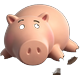
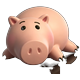
fix: preserve hooves with tighter shadow threshold, clean floor strip separately
Made-with: Cursor

diff --git a/process_ham.py b/process_ham.py
@@ -18,7 +18,7 @@ os.makedirs(PROC_DIR, exist_ok=True)
 
 # ── 工具函数 ─────────────────────────────────────────────────────────────────
 
-def load_remove_black(path, dark_thresh=12, feather=18, shadow_bright=90, shadow_chroma=28):
+def load_remove_black(path, dark_thresh=12, feather=18, shadow_bright=80, shadow_chroma=10):
     """
     从图片边缘做 BFS 洪泛填充，只去掉与边缘相连的近纯黑背景。
     - dark_thresh 极低（12），只有真正的纯黑像素才参与 BFS 扩展，
@@ -69,16 +69,27 @@ def load_remove_black(path, dark_thresh=12, feather=18, shadow_bright=90, shadow
     new_alpha = np.where(visited, bg_alpha, arr[..., 3])
     result[..., 3] = new_alpha.astype(np.uint8)
 
-    # ── 去除地面阴影/反光：暗色且低饱和度的像素 ───────────────────────────
-    # 阴影特征：亮度低、色彩范围小（灰黑）；猪蹄特征：比阴影稍亮且带棕色调
+    # ── 去除地面阴影/反光 ──────────────────────────────────────────────────
     r2 = result[..., 0].astype(np.int32)
     g2 = result[..., 1].astype(np.int32)
     b2 = result[..., 2].astype(np.int32)
     br2 = np.maximum(np.maximum(r2, g2), b2)
     chroma2 = br2 - np.minimum(np.minimum(r2, g2), b2)
-    # 暗（亮度<shadow_bright）且近灰（色彩范围<shadow_chroma）→ 阴影，清除
+
+    # 全图：极严格（chroma<10），只去纯灰像素，保留有色调的蹄子
     shadow_mask = (br2 < shadow_bright) & (chroma2 < shadow_chroma) & (result[..., 3] > 0)
     result[..., 3][shadow_mask] = 0
+
+    # 底部 8%：放宽到 chroma<22，强力清除紧贴地面的阴影烟雾
+    # 蹄子主体在 75-85% 位置，不会被这一步误删
+    bottom_strip = int(h * 0.08)
+    r3 = result[h - bottom_strip:, :, 0].astype(np.int32)
+    g3 = result[h - bottom_strip:, :, 1].astype(np.int32)
+    b3 = result[h - bottom_strip:, :, 2].astype(np.int32)
+    br3 = np.maximum(np.maximum(r3, g3), b3)
+    chroma3 = br3 - np.minimum(np.minimum(r3, g3), b3)
+    floor_mask = (br3 < shadow_bright) & (chroma3 < 22) & (result[h - bottom_strip:, :, 3] > 0)
+    result[h - bottom_strip:, :, 3][floor_mask] = 0
 
     # ── 去除孤立亮色像素团（水印文字）─────────────────────────────────────
     # 对当前 alpha>0 的像素做连通区域标记，找出与主体不相连的小块并清除
